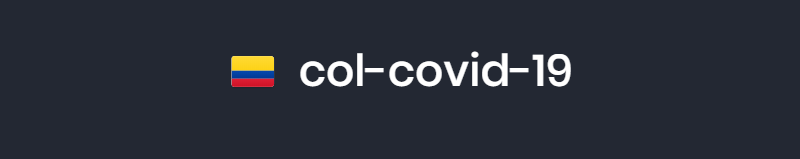
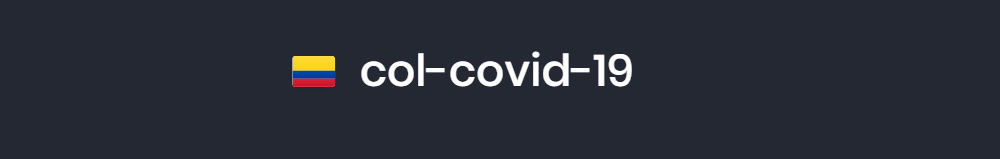
Data updated 19-04-2020 17:33

Changed region(s): [[0.2812, 0.327, 0.7188, 0.5535]]

diff --git a/docs/index.html b/docs/index.html
@@ -86,7 +86,7 @@
             <div class="col s12 report" id="report">
                 <p>Reporte
 
-                    <span>19-04-2020 17:02:33 PM GMT-0500</span>
+                    <span>19-04-2020 17:33:47 PM GMT-0500</span>
 
                 </p>
 

diff --git a/README.md b/README.md
@@ -15,9 +15,9 @@ Yefferson Marín - ([@yammadev](https://github.com/yammadev))
 [GNU General Public License v3.0](LICENSE)
 
 ## 2. Datos / Data
-Los datos utilizados son cargados (una vez se realiza una actualización) desde los [Datos Abiertos](https://www.datos.gov.co/Salud-y-Protecci-n-Social/Casos-positivos-de-COVID-19-en-Colombia/gt2j-8ykr) del Gobierno Nacional, publicados por el [Instituto Nacional de Salud](https://www.ins.gov.co) de Colombia / The data used is loaded (once an update is made) from the [Open Data](https://www.datos.gov.co/Salud-y-Protecci-n-Social/Casos-positivos-de-COVID- 19-en-Colombia / gt2j-8ykr) of the National Government, published by the [National Institute of Health](https://www.ins.gov.co) of Colombia.
+Los datos utilizados son cargados (una vez se realiza una actualización) desde los [Datos Abiertos](https://www.datos.gov.co/Salud-y-Protecci-n-Social/Casos-positivos-de-COVID-19-en-Colombia/gt2j-8ykr) del Gobierno Nacional, publicados por el [Instituto Nacional de Salud](https://www.ins.gov.co) de Colombia / The data used is loaded (once an update is made) from the [Open Data](https://www.datos.gov.co/Salud-y-Protecci-n-Social/Casos-positivos-de-COVID-19-en-Colombia/gt2j-8ykr) of the National Government, published by the [National Institute of Health](https://www.ins.gov.co) of Colombia.
 
-Los datos formateados se encuentran disponibles en la carpeta [data/](data) para su estudio y uso en formatos `.csv` y `.json` / Formatted data is available in the [data /](data) folder for study and use in `.csv` and` .json` formats:
+Los datos formateados se encuentran disponibles en la carpeta [data/](data) para su estudio y uso en formatos `.csv` y `.json` / Formatted data is available in the [data/](data) folder for study and use in `.csv` and` .json` formats:
 
 | Archivo / File | Referencia / Reference |
 | :-----: | ---------- |
@@ -95,6 +95,12 @@ Todos los cambios notables a este proyecto están documentados en esta parte del
 - **Removido** para funciones eliminadas / **Removed** for removed features.
 - **Corregido** cualquier corrección de errores / **Fixed for** any bug fixes.
 - **Seguridad** en caso de vulnerabilidades / **Security** in case of vulnerabilities.
+
+### [2.0.1] - 2020-04-19
+#### Modificado / Modified
+- Script.
+- Banner.
+- Readme.
 
 ### [2.0.0] - 2020-04-19
 #### Agregado / Added
